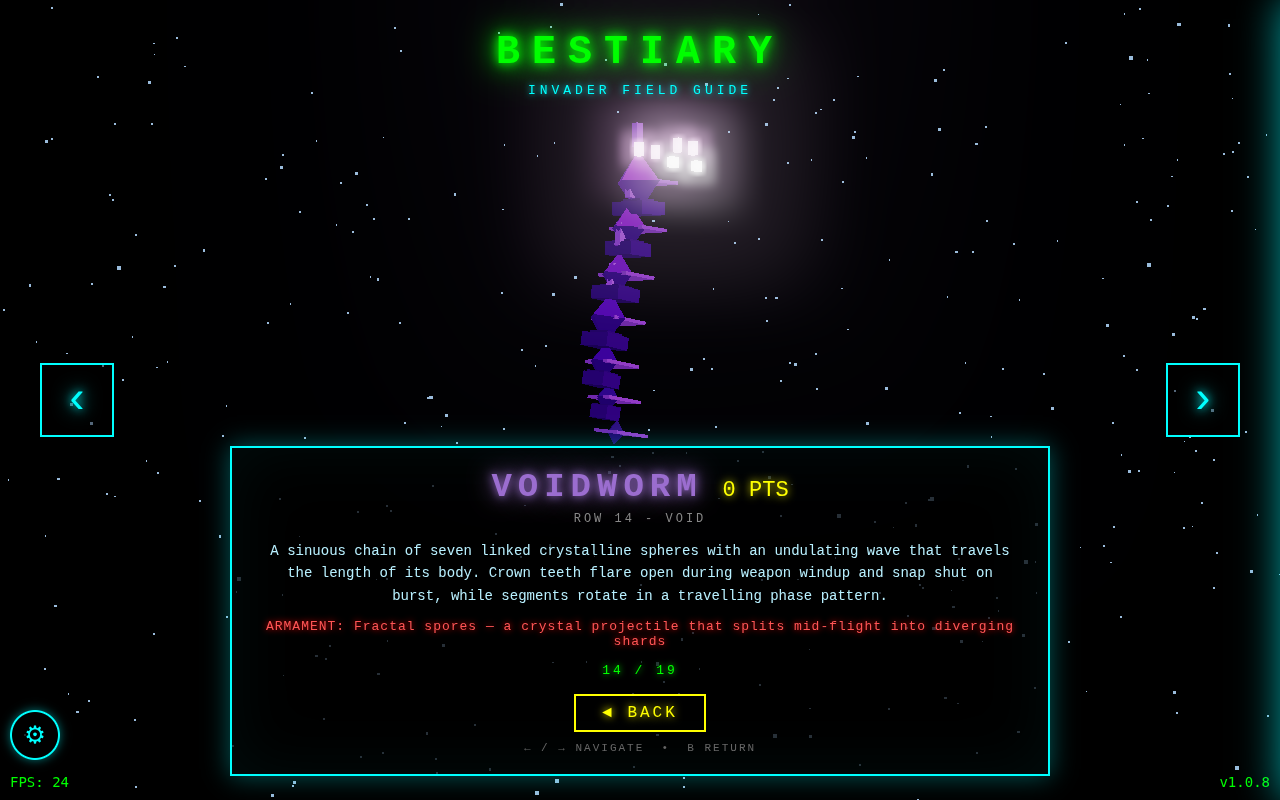
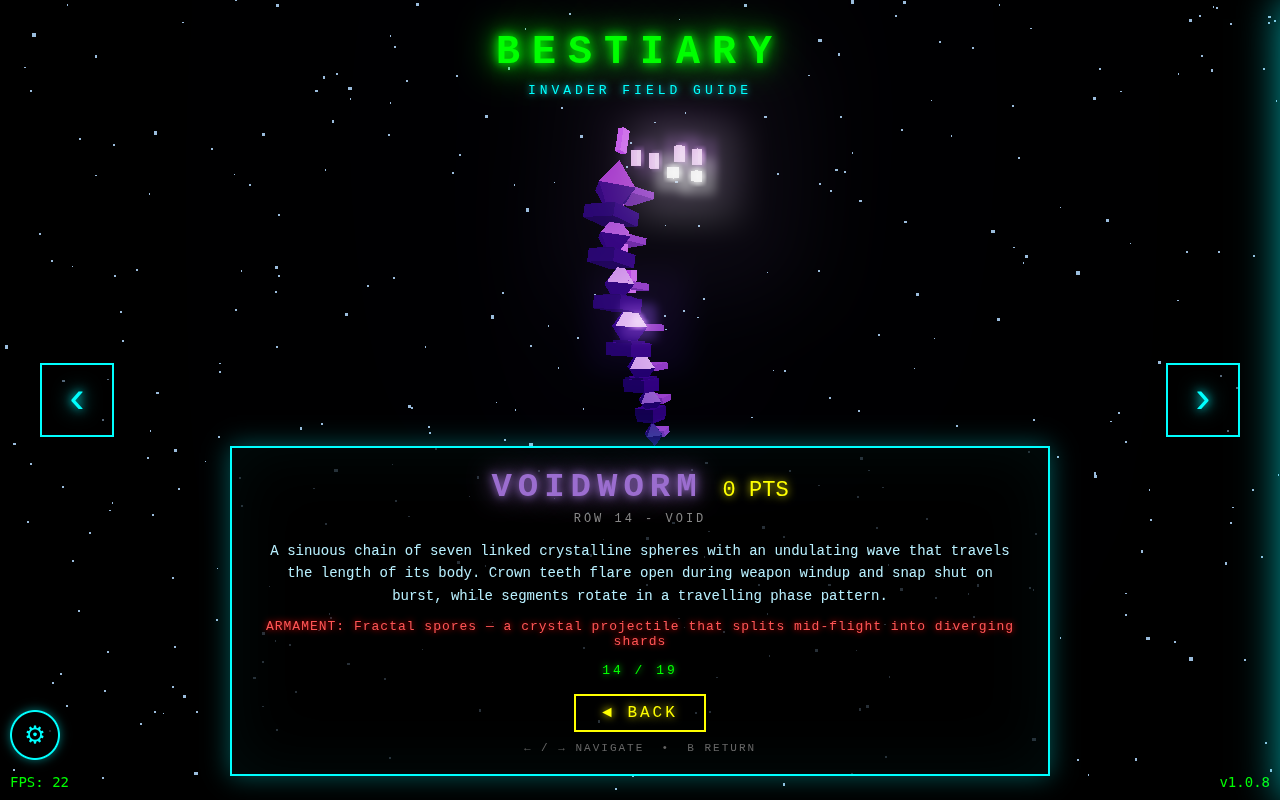
polish: VOIDWORM — crown reads as teeth, segments read as crystal
Crown: teeth emissive was VOIDWORM_HOT (0xffccff) at 2.5 base and up to
4.5 during windup, which clipped under bloom into a featureless white
blob — the teeth the bestiary promises were never visible. Now violet
(VOIDWORM_BRIGHT) at 1.0 base, 0.6 + windup * 1.7 animated. Eyes 2.0 ->
1.1, core glow 1.5 -> 1.1.

Segments: MeshPhongMaterial defaults specular to 0x111111, so shininess
120 lit nothing and the octahedron faces read as flat paper. Added
specular 0xbb88ff so the facets catch light. Accent plates were a fixed
0.28 wide on 0.07-radius tail segments (4x their diameter, read as fins);
now scaled to each segment, thickness 0.02 -> 0.04.

Verified: capture exits 0, no JS errors, 23-24 fps (unchanged).
Grader on this identical build: 8, 6, 7, 7, 7 (mean 7.0) — contrast
consistently 7 -> 8. NOT a confirmed 8.0; the judge is +/-2 noisy.

Changed region(s): [[0.4375, 0.0938, 0.5938, 0.5625]]

diff --git a/js/aliens.js b/js/aliens.js
@@ -3013,7 +3013,7 @@ function getVoidwormParts() {
     // segment's surface, catching light as the worm waves. Adds surface detail
     // without changing the chain silhouette.
     const plateGeometry = buildVoxelGeometry([
-        { size: [0.28, 0.02, 0.22], pos: [0, 0, 0], rotX: 0, color: VOIDWORM_MID }
+        { size: [0.28, 0.04, 0.22], pos: [0, 0, 0], rotX: 0, color: VOIDWORM_MID }
     ]);
 
     // Joint beads — small ring-like beads between segments that catch light as
@@ -3039,6 +3039,10 @@ function getVoidwormParts() {
                 color: colors[i],
                 emissive: VOIDWORM_DEEP,
                 emissiveIntensity: 0.7,
+                // MeshPhongMaterial defaults specular to 0x111111, so shininess
+                // 120 lit nothing and the octahedron faces read as flat paper.
+                // A real specular colour is what makes the facets catch light.
+                specular: 0xbb88ff,
                 shininess: 120,
                 flatShading: true
             });
@@ -3053,7 +3057,7 @@ function getVoidwormParts() {
         coreMaterial: new THREE.MeshPhongMaterial({
             color: VOIDWORM_HOT,
             emissive: VOIDWORM_HOT,
-            emissiveIntensity: 1.5,
+            emissiveIntensity: 1.1,
             transparent: true,
             opacity: 0.7,
             flatShading: true
@@ -3081,14 +3085,17 @@ function getVoidwormParts() {
         }),
         teethMaterial: new THREE.MeshPhongMaterial({
             vertexColors: true,
-            emissive: VOIDWORM_HOT,
-            emissiveIntensity: 2.5,
+            // Violet, not near-white. VOIDWORM_HOT (0xffccff) clipped under
+            // bloom and turned the whole crown into a featureless white blob,
+            // so the teeth the bestiary promises were never visible.
+            emissive: VOIDWORM_BRIGHT,
+            emissiveIntensity: 1.0,
             flatShading: true
         }),
         eyeMaterial: new THREE.MeshPhongMaterial({
             vertexColors: true,
             emissive: 0xffffff,
-            emissiveIntensity: 2.0,
+            emissiveIntensity: 1.1,
             flatShading: true
         })
     };
@@ -3156,6 +3163,11 @@ function createVoidwormAlien(group) {
         );
         plateMesh.position.set(VOIDWORM_RADII[i] * 0.7, 0, 0);
         plateMesh.rotation.y = Math.PI / 2;
+        // Scale the footprint to the segment, keeping thickness. A fixed
+        // 0.28 plate on the 0.07-radius tail segments was four times their
+        // diameter and read as a flat fin hanging off the chain.
+        const plateFit = VOIDWORM_RADII[i] / VOIDWORM_RADII[0];
+        plateMesh.scale.set(plateFit, 1, plateFit);
         pivot.add(plateMesh);
 
         const seg = { pivot, phase: segmentPhases[i], mesh: segMesh, core: coreMesh, spine: null, plate: plateMesh, bead: null };
@@ -4878,7 +4890,7 @@ export function animateAlien(alien) {
             if (self.teeth) {
                 // Teeth emissive — bright flash during windup
                 self.teeth.material.emissiveIntensity =
-                    1.5 + windup * 3.0;
+                    0.6 + windup * 1.7;
                 // Teeth open: scale outward during windup, snap shut on burst
                 const teethScale = 1.0 + windup * 0.6;
                 self.teeth.scale.setScalar(teethScale);
